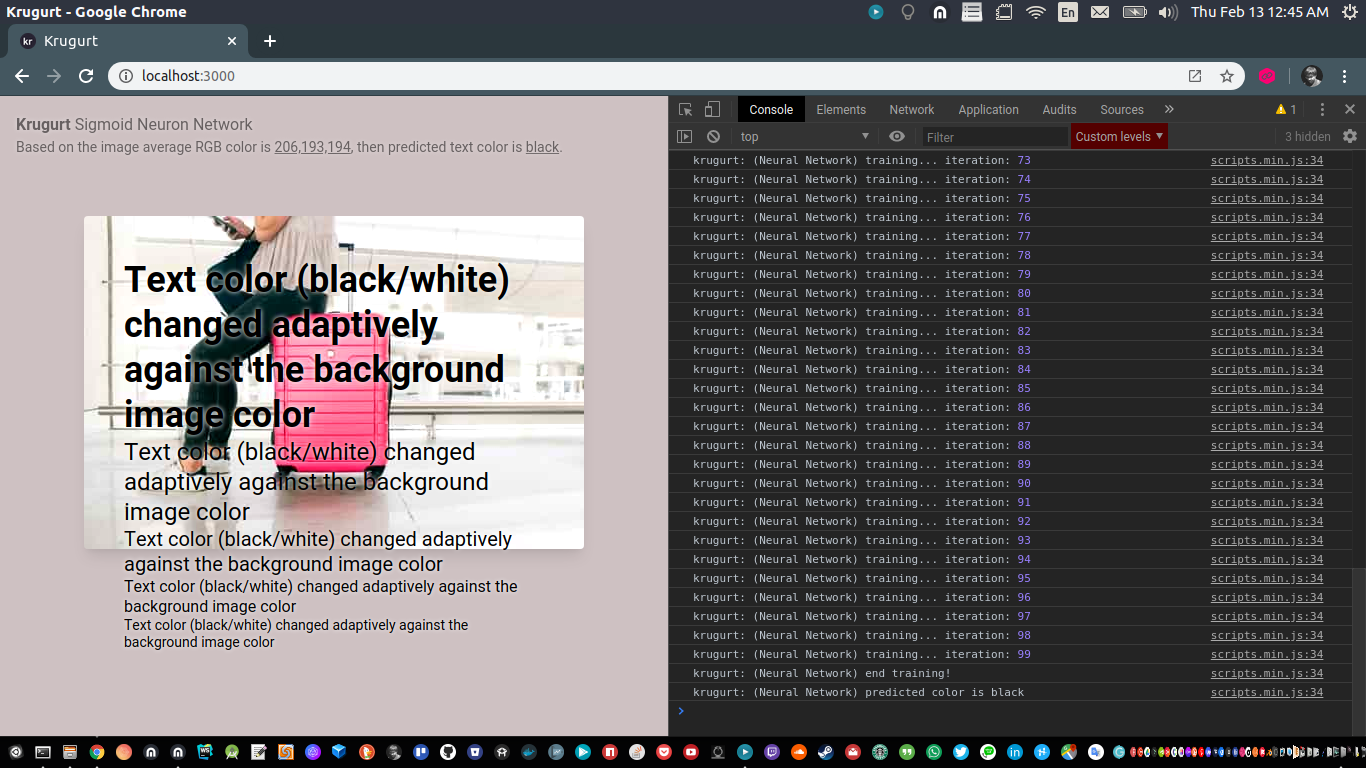
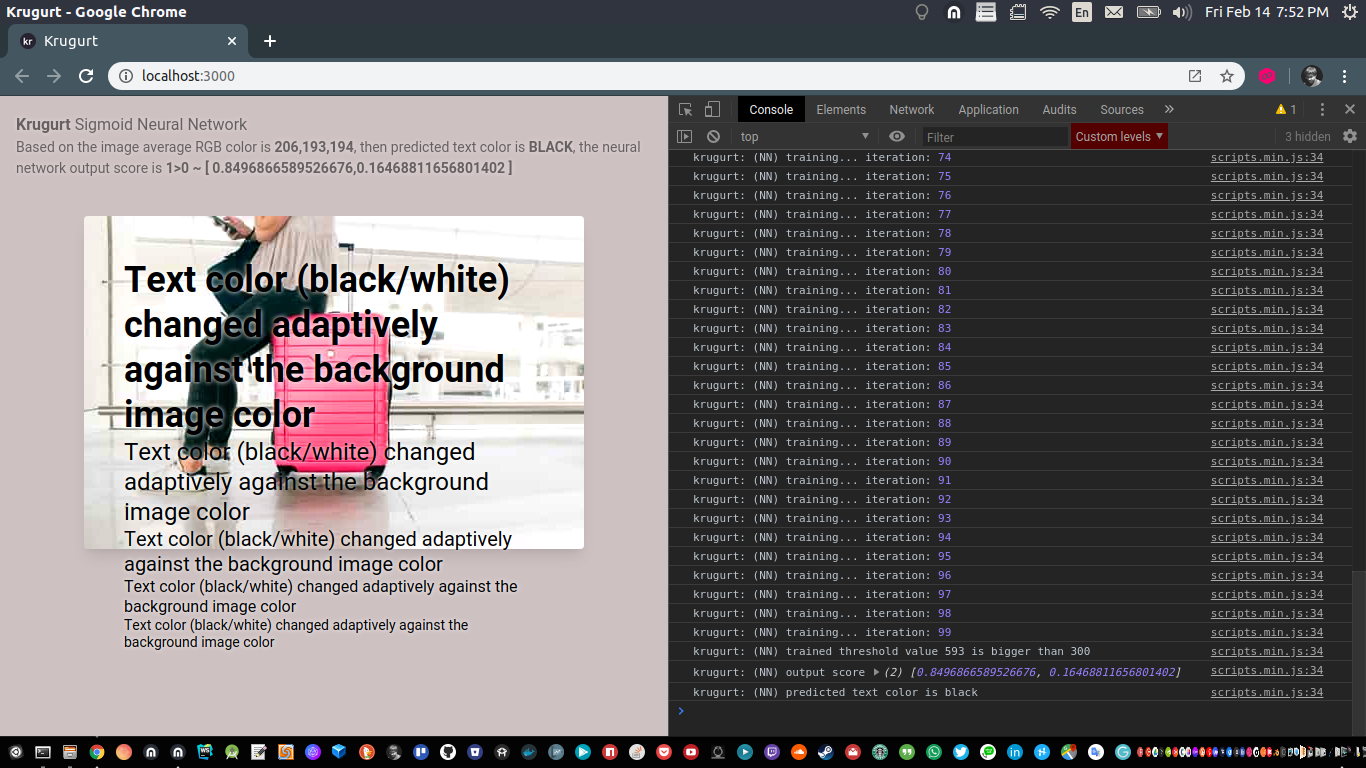
update screenshots

diff --git a/src/views/index.html b/src/views/index.html
@@ -157,7 +157,7 @@
                   id="textResult">
             </span>,
 
-            the neural network output result is
+            the neural network output score is
 
             <span class="font-semibold"
                   id="textNnResult">
@@ -179,8 +179,8 @@
       <y class="relative p-10">
 
         <img class="adaptive w-full h-auto rounded shadow-lg overflow-hidden"
-             src="assets/image/low/dummy/pexels-photo-3619784.jpeg"
-             data-src="assets/image/high/dummy/pexels-photo-3619784.jpeg"
+             src="assets/image/low/dummy/pexels-photo-3473492.jpeg"
+             data-src="assets/image/high/dummy/pexels-photo-3473492.jpeg"
              id="imageInput">
 
         <y class="absolute top-0 left-0 p-20">

diff --git a/src/assets/js/components/train.js b/src/assets/js/components/train.js
@@ -88,7 +88,7 @@ function predict() {
   } else {
     log("(NN) trained threshold value", rgbSum + " is smaller than " + threshold);
   }
-  log("(NN) output result", outputs);
+  log("(NN) output score", outputs);
   if (outputs[0] > outputs[1]) {
     foregroundColor.style.color = isBlack;
     foregroundColor.style.textShadow = "0px 0px 5px #ffffff";
